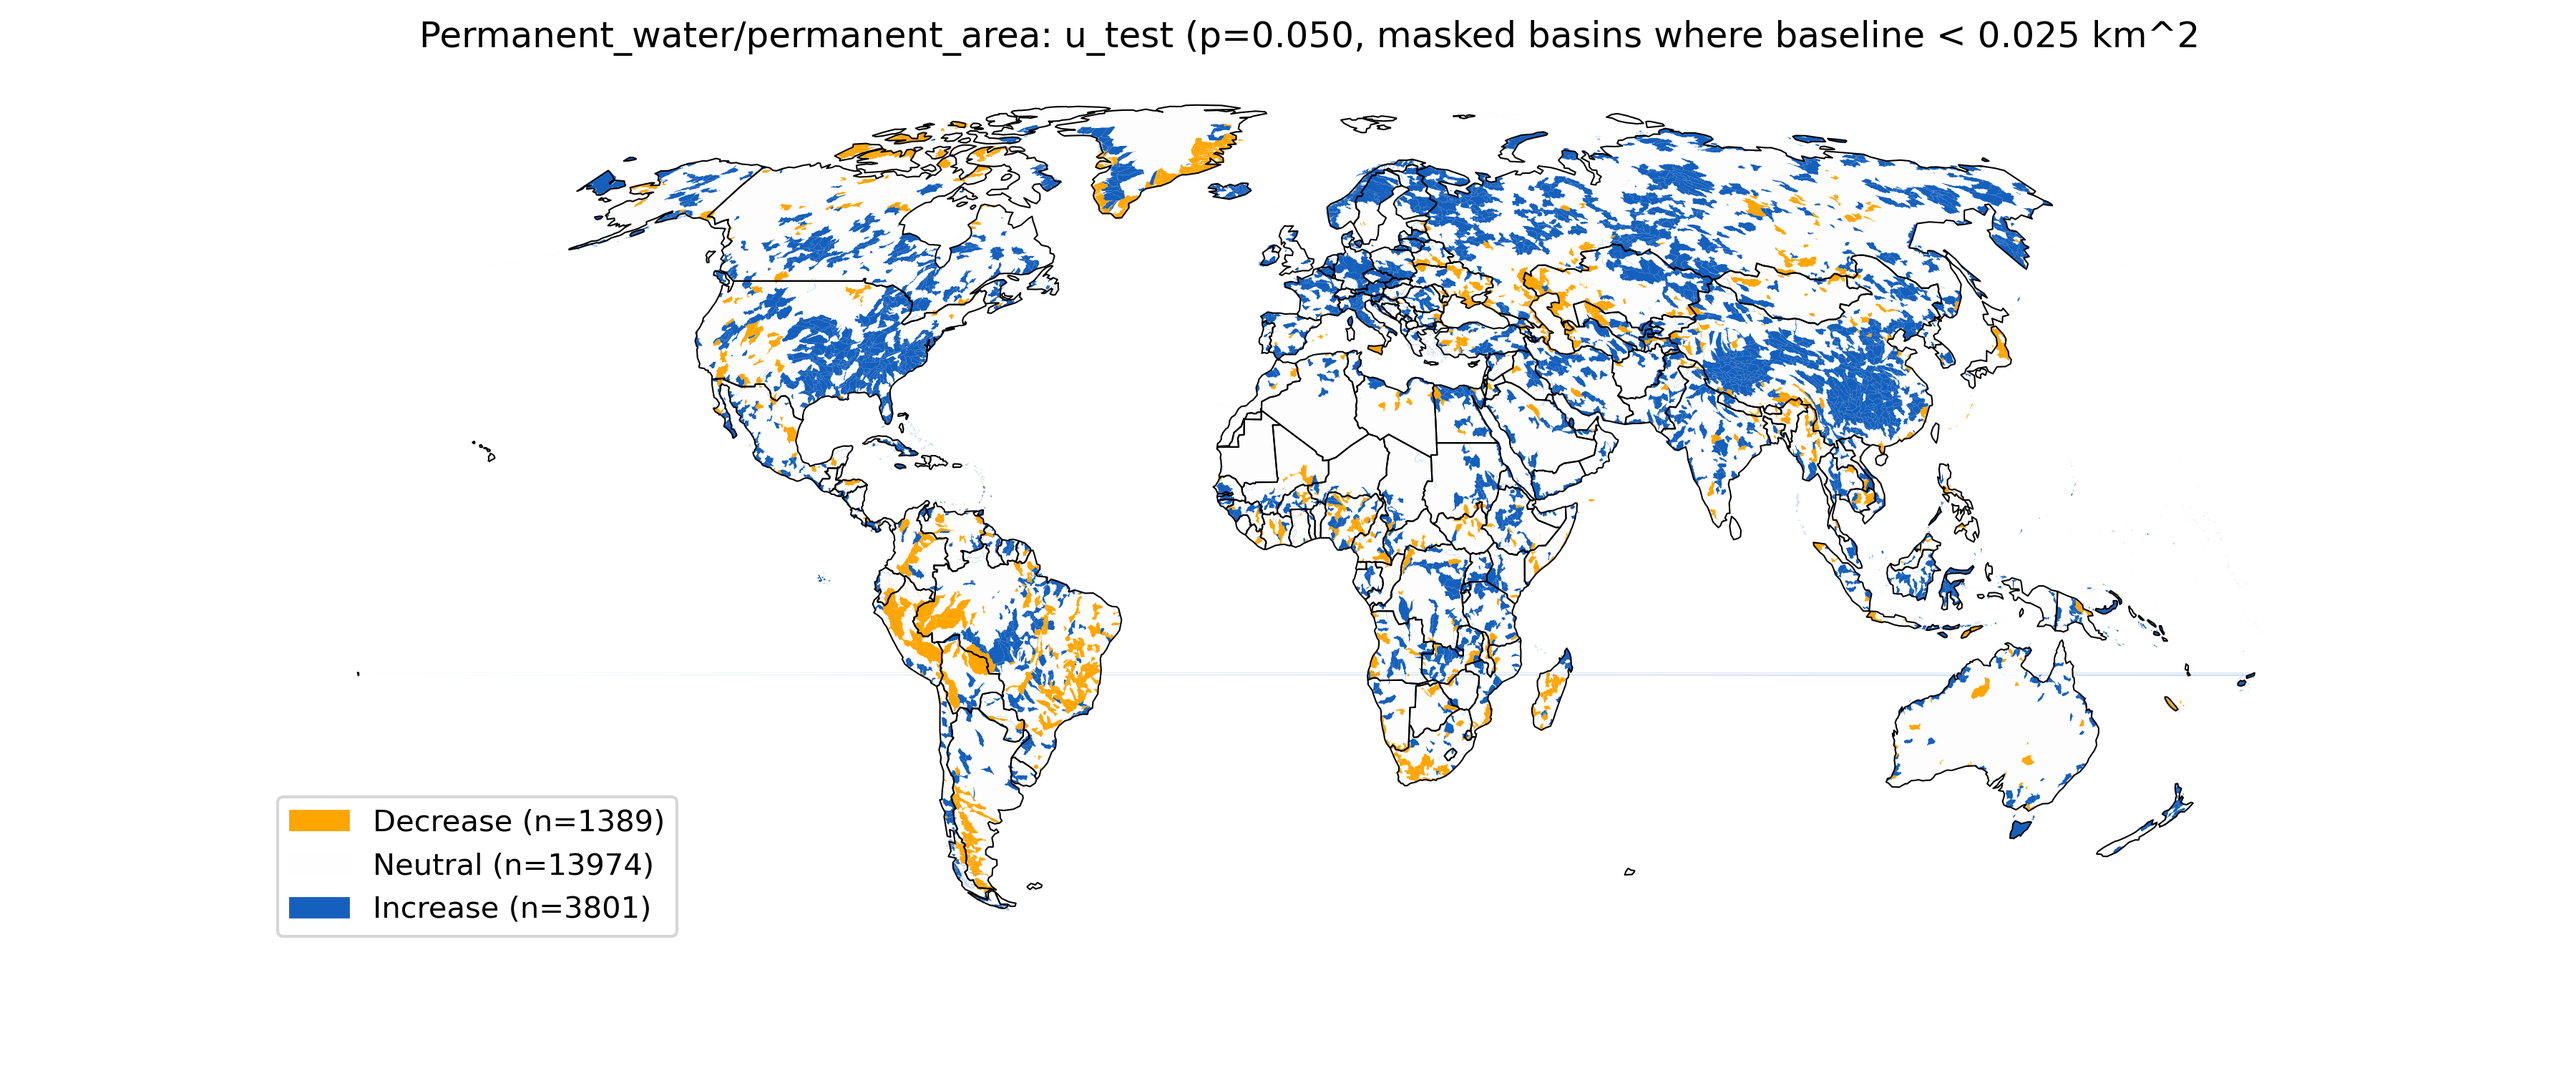
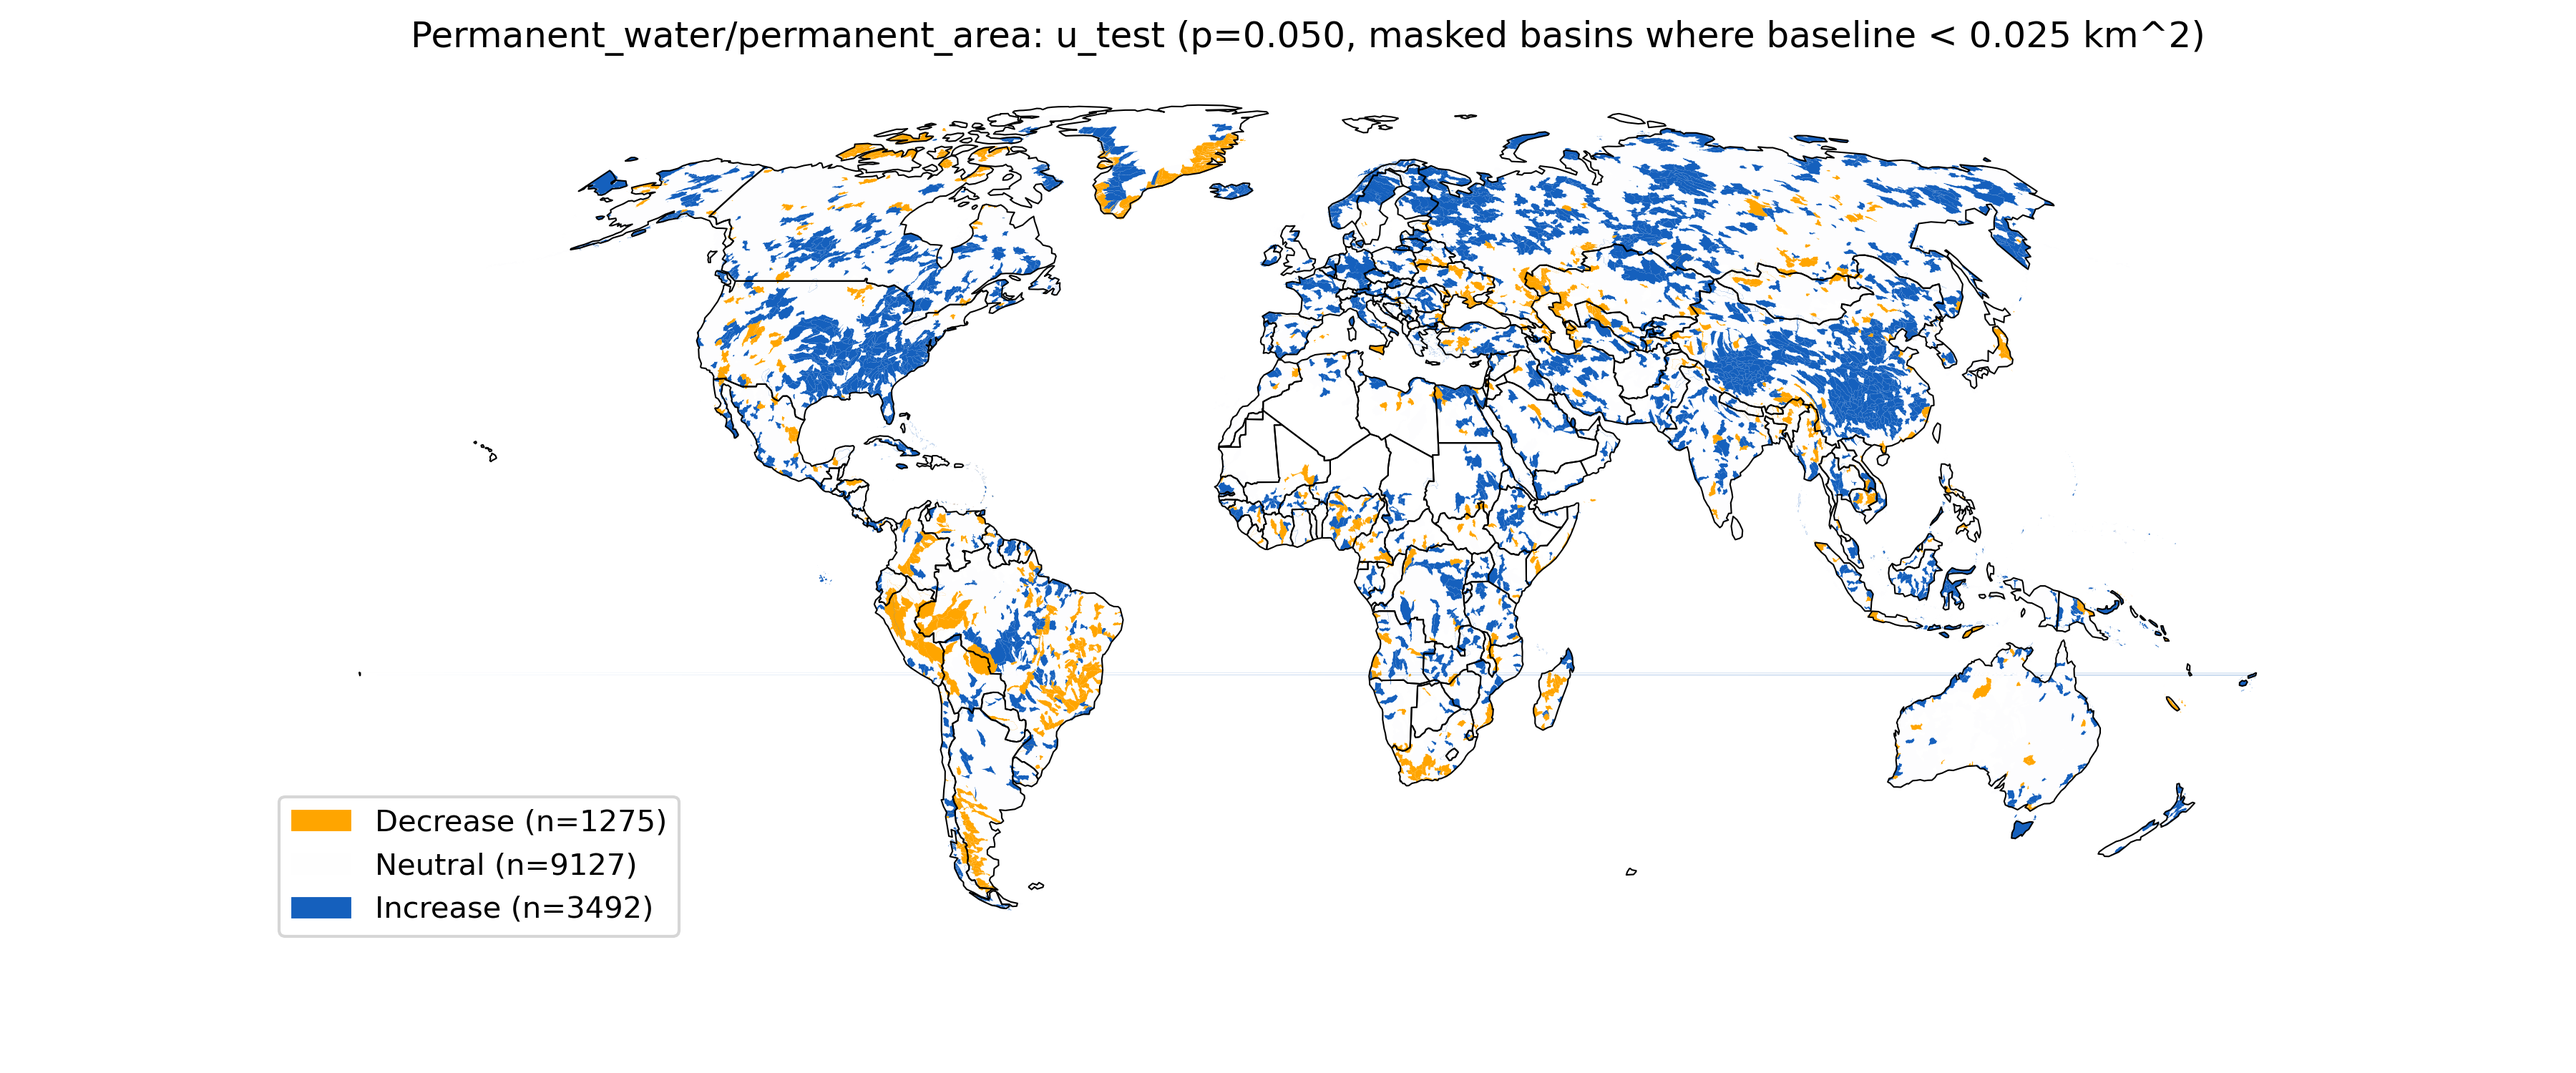
V1

diff --git a/step2_sdg661_utest.py b/step2_sdg661_utest.py
@@ -43,6 +43,13 @@ meta = {'id_bgl': 'str',
 # meta_adm0 = {'id': 'str', 'adm0_name': 'str', 't_score': 'float', 'u_score': 'float', 'p_t': 'float', 'p_u': 'float', 'delta': 'float'} #'id_bgl': 'object', 'start_year': int, 'basin_level': int
 # meta.update({col: 'float16' for col in cols_required})
 
+def get_sign(x):
+    if x > 0: return 1
+    elif x < 0: return -1
+    else: return 0
+    
+
+
 def t_test_and_u_test(group, basin_level):
     id = group.index[0] # basin_id
     
@@ -61,11 +68,11 @@ def t_test_and_u_test(group, basin_level):
     median_diff = median_report - median_baseline
 
     # delta
-    delta = median_diff / (median_baseline + 1e-5) * 100
+    delta = median_diff / (median_baseline + 1e-15) * 100
 
-    u_sign = int(round(median_diff / (np.abs(median_diff + 1e-5))))
     dry_mask = median_baseline < 0.0225 # dry basin if true, precision=0.0225
     if dry_mask: u_sign = -99
+    u_sign = get_sign(median_diff)
 
     # p_u_thd = float(p_u < p_thd)
     df = pd.DataFrame([[id, basin_level, 2017, t_score, p_t, u_score, p_u, median_baseline, delta, u_sign]], 

diff --git a/step4_map.py b/step4_map.py
@@ -56,7 +56,7 @@ def get_u_sign(delta_value):
 u_test = pd.read_csv(f"outputs_utest/{folder}/{area}/basins_level_{basin_level}_utest.csv")
 u_test['u_flag'] = u_test['p_u'].transform(lambda x: float(x < p_thd)) # u_flag determines whether a basin change or not
 
-u_test['u_sign'] = u_test['delta'].transform(lambda x: get_u_sign(x))
+# u_test['u_sign'] = u_test['delta'].transform(lambda x: get_u_sign(x))
 # u_test['u_sign'][u_test['baseline_median'] < min_area_thd] = -99
 u_test['u_sign'][u_test['u_sign'] == -99] = 0
 u_test['u_sign'] = u_test['u_sign'] * u_test['u_flag']
